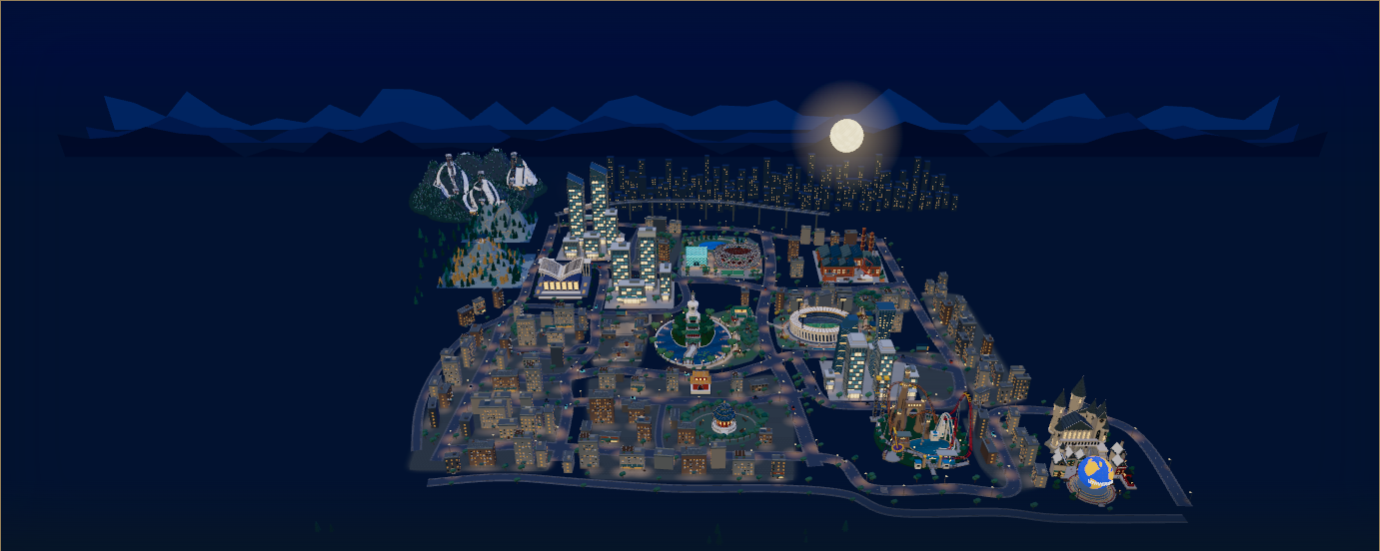
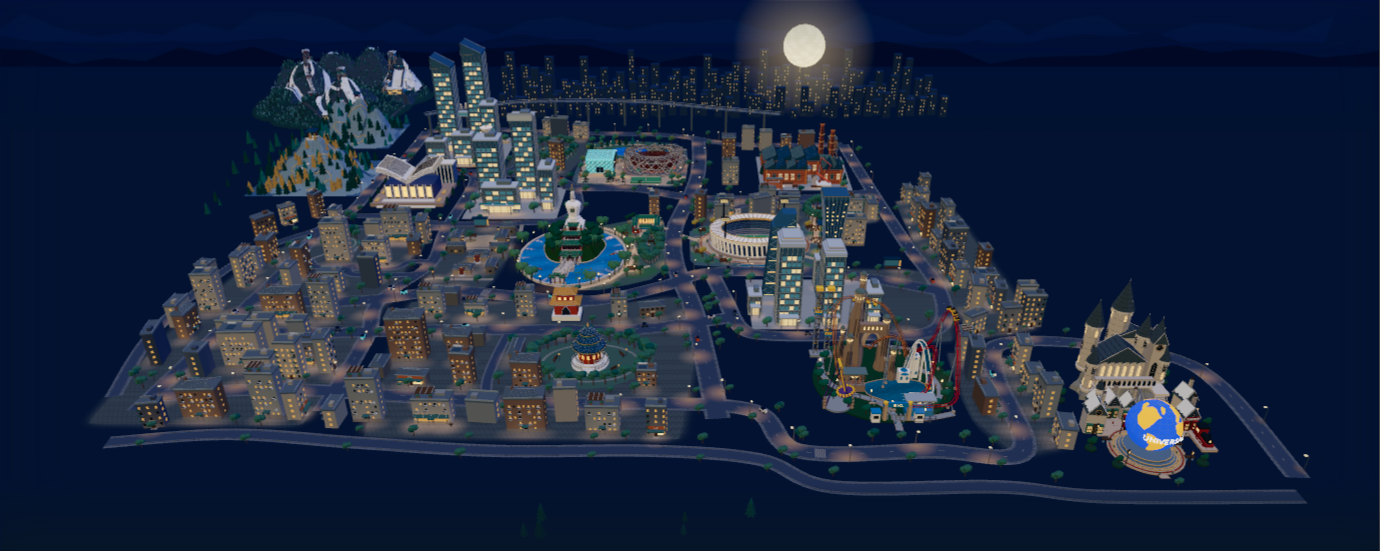
fix: improve city overview framing and landmark night lighting (#2)
Fit the actual city silhouette using opposing perspective bounds, keep the orbit center on the ground, and improve landmark lighting while preserving geometry and licenses.

Verified: original project full verification, standalone 67 tests, desktop/mobile-size browser interaction checks, and exact-head GitHub CI.

diff --git a/index.html b/index.html
@@ -7,9 +7,9 @@
   <meta name="description" content="从西山到城市，从雪场到乐园。进入一张可以旋转、点亮和切换冬景的北京十二地点立体地图。">
   <title>北京十二坐标 · 立体场地卡</title>
   <link rel="icon" href="data:,">
-  <link rel="stylesheet" href="./style.css?v=panorama24">
+  <link rel="stylesheet" href="./style.css?v=panorama25">
   <script type="importmap">{"imports":{"three":"./vendor/three.module.min.js"}}</script>
-  <script type="module" src="./main.mjs?v=panorama24"></script>
+  <script type="module" src="./main.mjs?v=panorama25"></script>
 </head>
 <body>
   <main class="field-shell">
@@ -25,7 +25,7 @@
         <button type="button" id="view-mode" aria-pressed="false" aria-controls="free-view-controls">自由看</button>
       </div>
       <section class="stage" id="stage" aria-label="北京十二地点立体场景">
-        <img class="preview" id="preview" src="./preview.png?v=panorama24" alt="北京全图静态预览：西山、城市街区和乐园，在蓝金夜色中连成十二个地点。">
+        <img class="preview" id="preview" src="./preview.png?v=panorama25" alt="北京全图静态预览：西山、城市街区和乐园，在蓝金夜色中连成十二个地点。">
         <div class="canvas-host" id="canvas-host"></div>
         <div class="stage-vignette" aria-hidden="true"></div>
         <div class="scene-caption" id="scene-caption"><span class="caption-rule" aria-hidden="true"></span><p id="caption-title">北京，灯火铺展开来</p><span id="caption-detail">点击地标，或从下方选择一个地点。</span></div>

diff --git a/docs/VALIDATION.md b/docs/VALIDATION.md
@@ -1,5 +1,21 @@
 # 独立项目验收
 
+## 2026-10-15：全景取景与夜景层次
+
+本次先在原地图项目中修改、验证，再同步运行代码与回归测试；未更新作品集主分支。
+
+- 修正透视取景偏移：同时求解画面两侧边界，使城市更充分地占用画布；窄屏使用更俯视的角度分开南北地标。
+- 独立审阅发现新取景的轨道中心可能落到地下。先用实际 GLB 增加失败测试，再将中心沿原视线放回地面；保持全景构图，同时避免最小距离缩放进入地下。复审无未解决发现。
+- 补充地点父节点识别，避免地标下的子网格被误当作普通街区压暗；调整湖面、白塔、鸟巢和地面材质，以及远山与月亮的层次。全部是显示层修改，不改地理、几何或交互规则。
+- `npm run verify`：27 个 JS 模块检查、67 项测试、26 个运行/许可文件的静态构建通过（本地 Node 26.5.0）。新增 3 项回归覆盖透视两侧取景、实际模型缩放边界与地标父节点识别。
+- 原项目完整 `npm run verify` 通过；原地图模块 66 项测试通过。原作品集已有的图片数量建议与第三方构建提示仍存在，不视作本次新增问题。
+- Chromium 实际验收：1440×900、390×844、320×568、844×390。覆盖十二地点、北海三处取景/返回、自由旋转/平移、45 次连续放大、Home、冬景、灯光、暂停与减少动态；检查了渲染截图。窄屏无横向溢出，矮横屏的下方控件可滚动到达。
+- 正常交互控制台 0 error / 0 warning。另行阻断模型请求，确认静态回退；解除阻断并点击“重新载入”后恢复十二地点实时渲染。故障模拟的 1 error / 1 warning 为预期。
[1 lines of base64/hex data omitted]
+- 以上是本地与桌面浏览器证据；云端状态见对应 PR / Actions。实体手机手势、帧率、内存、发热与 Safari/Firefox 仍未验证。
+
+## 首次独立整理记录
+
 日期：2026-10-13（Asia/Shanghai）。此记录区分本地验证、浏览器验证与 GitHub CI；本地通过不代表云端已通过。
 
 ## 自动化
